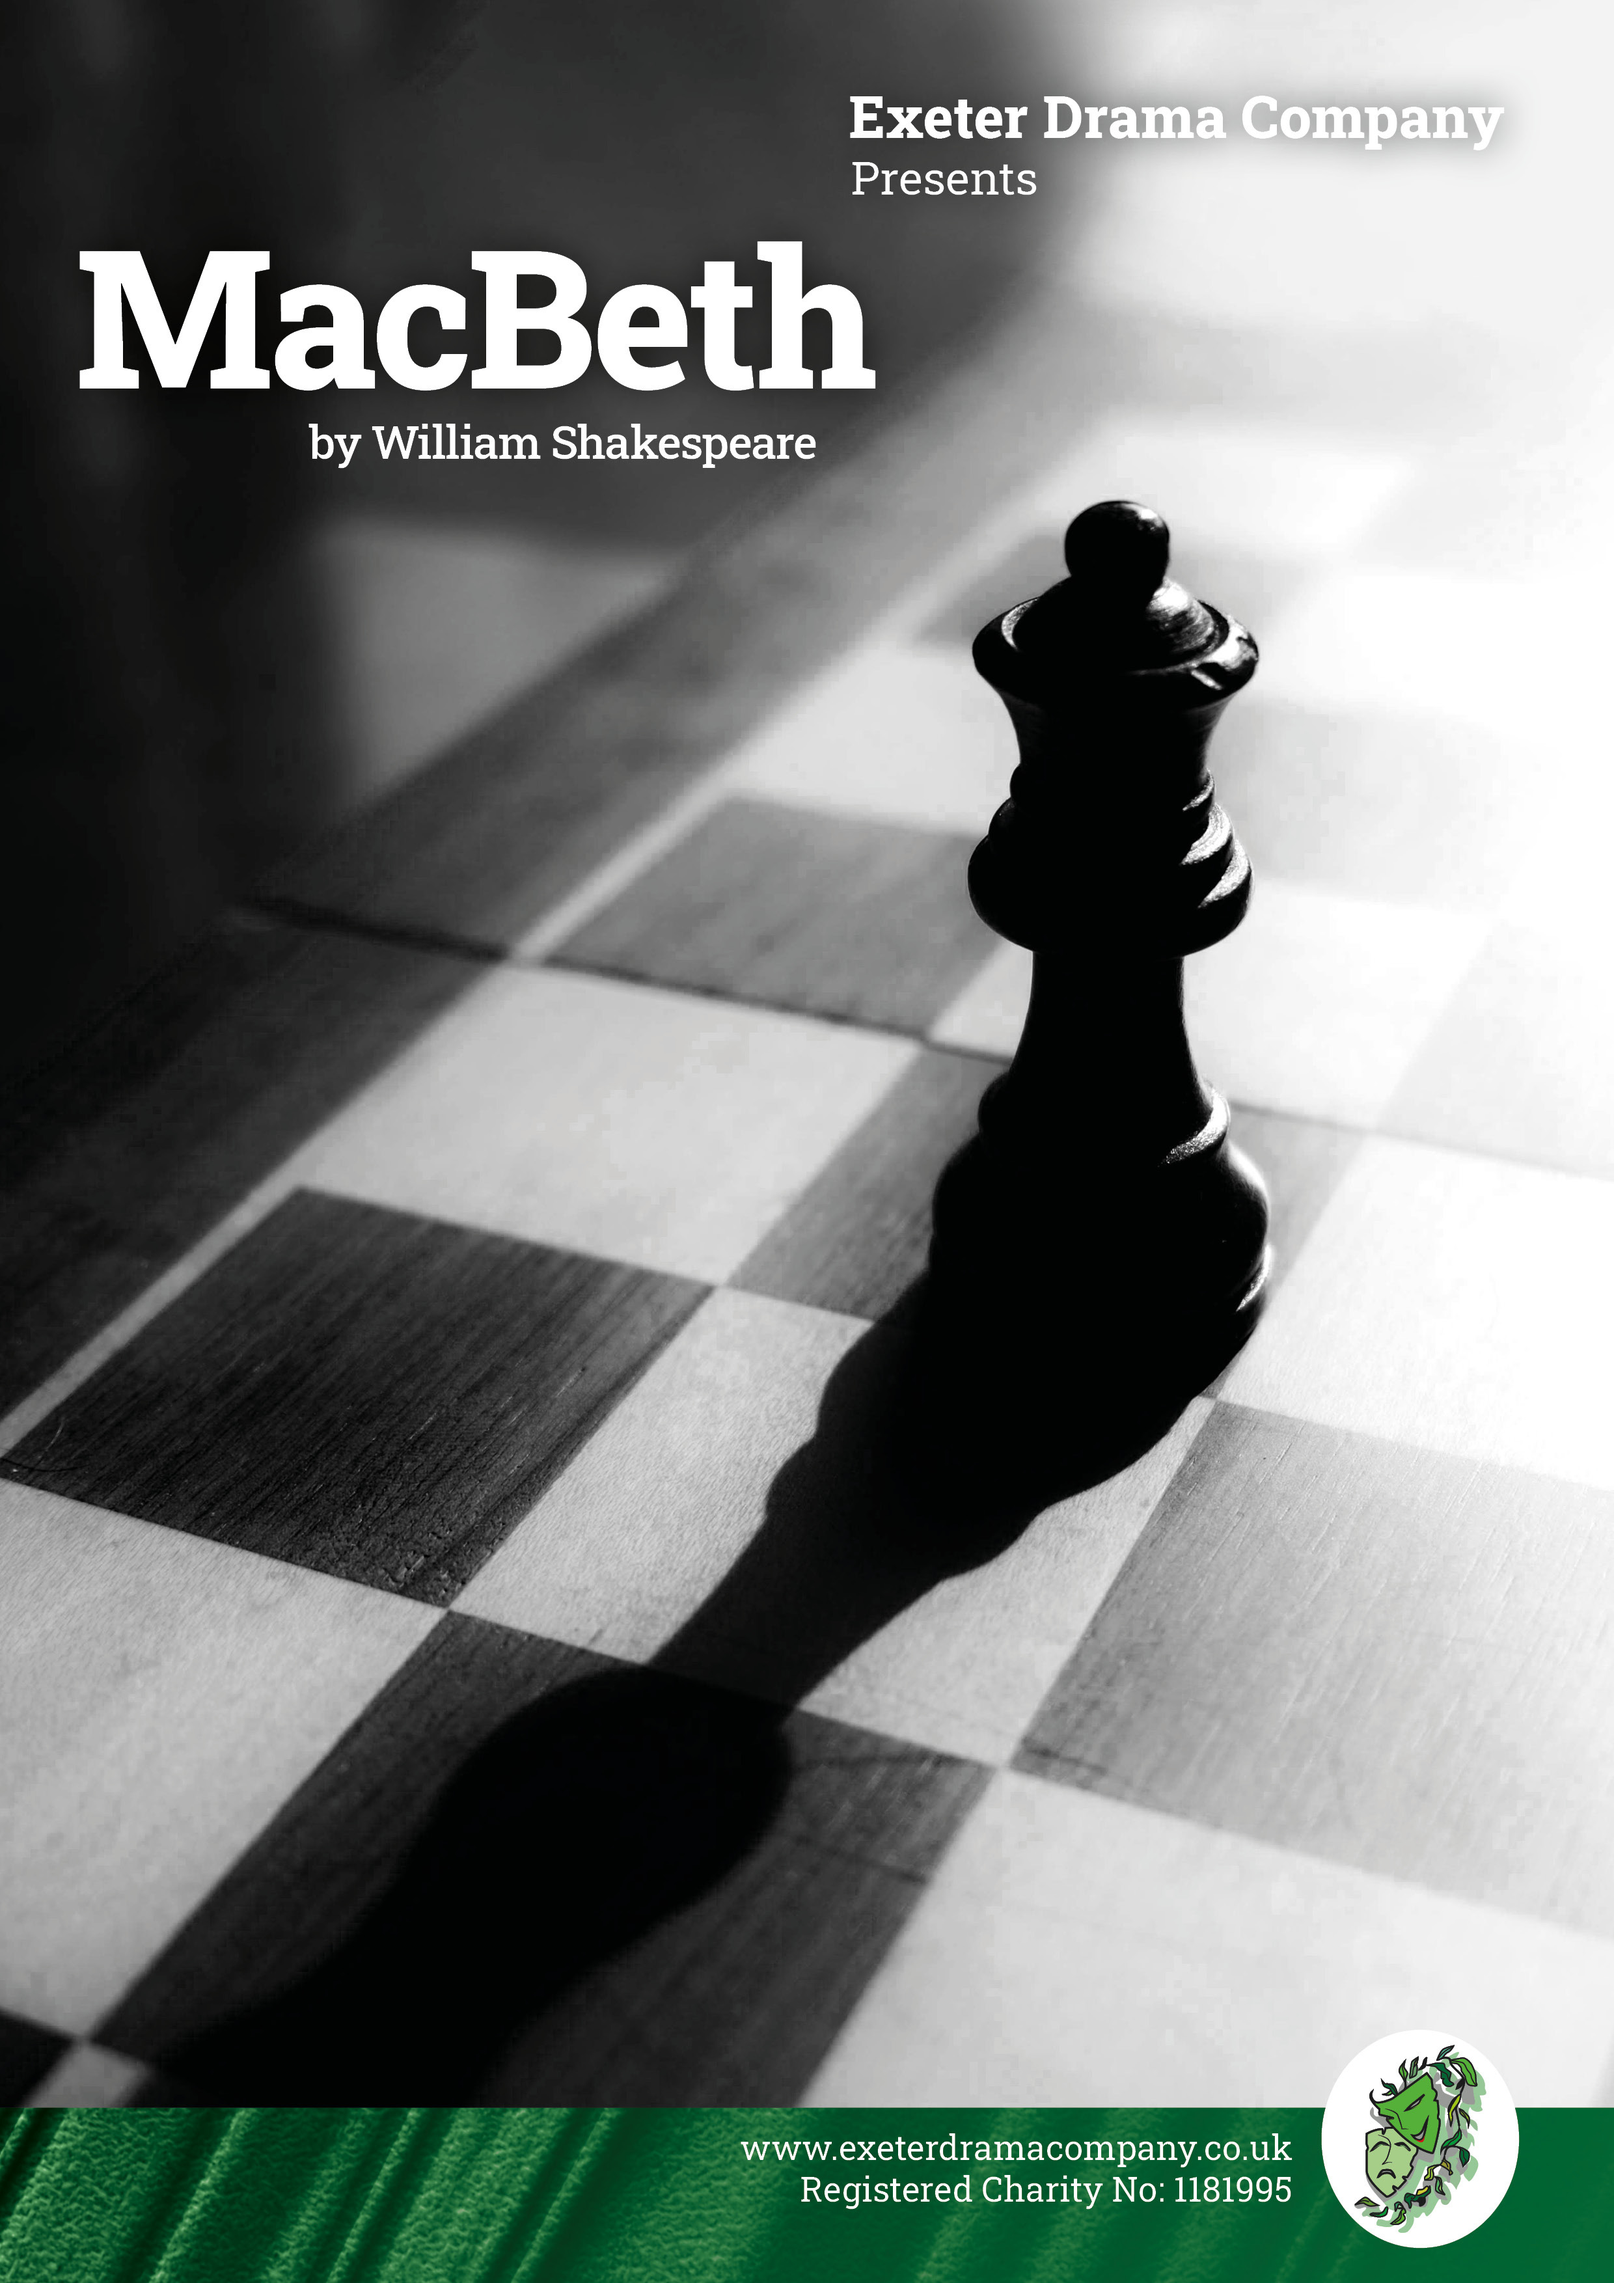
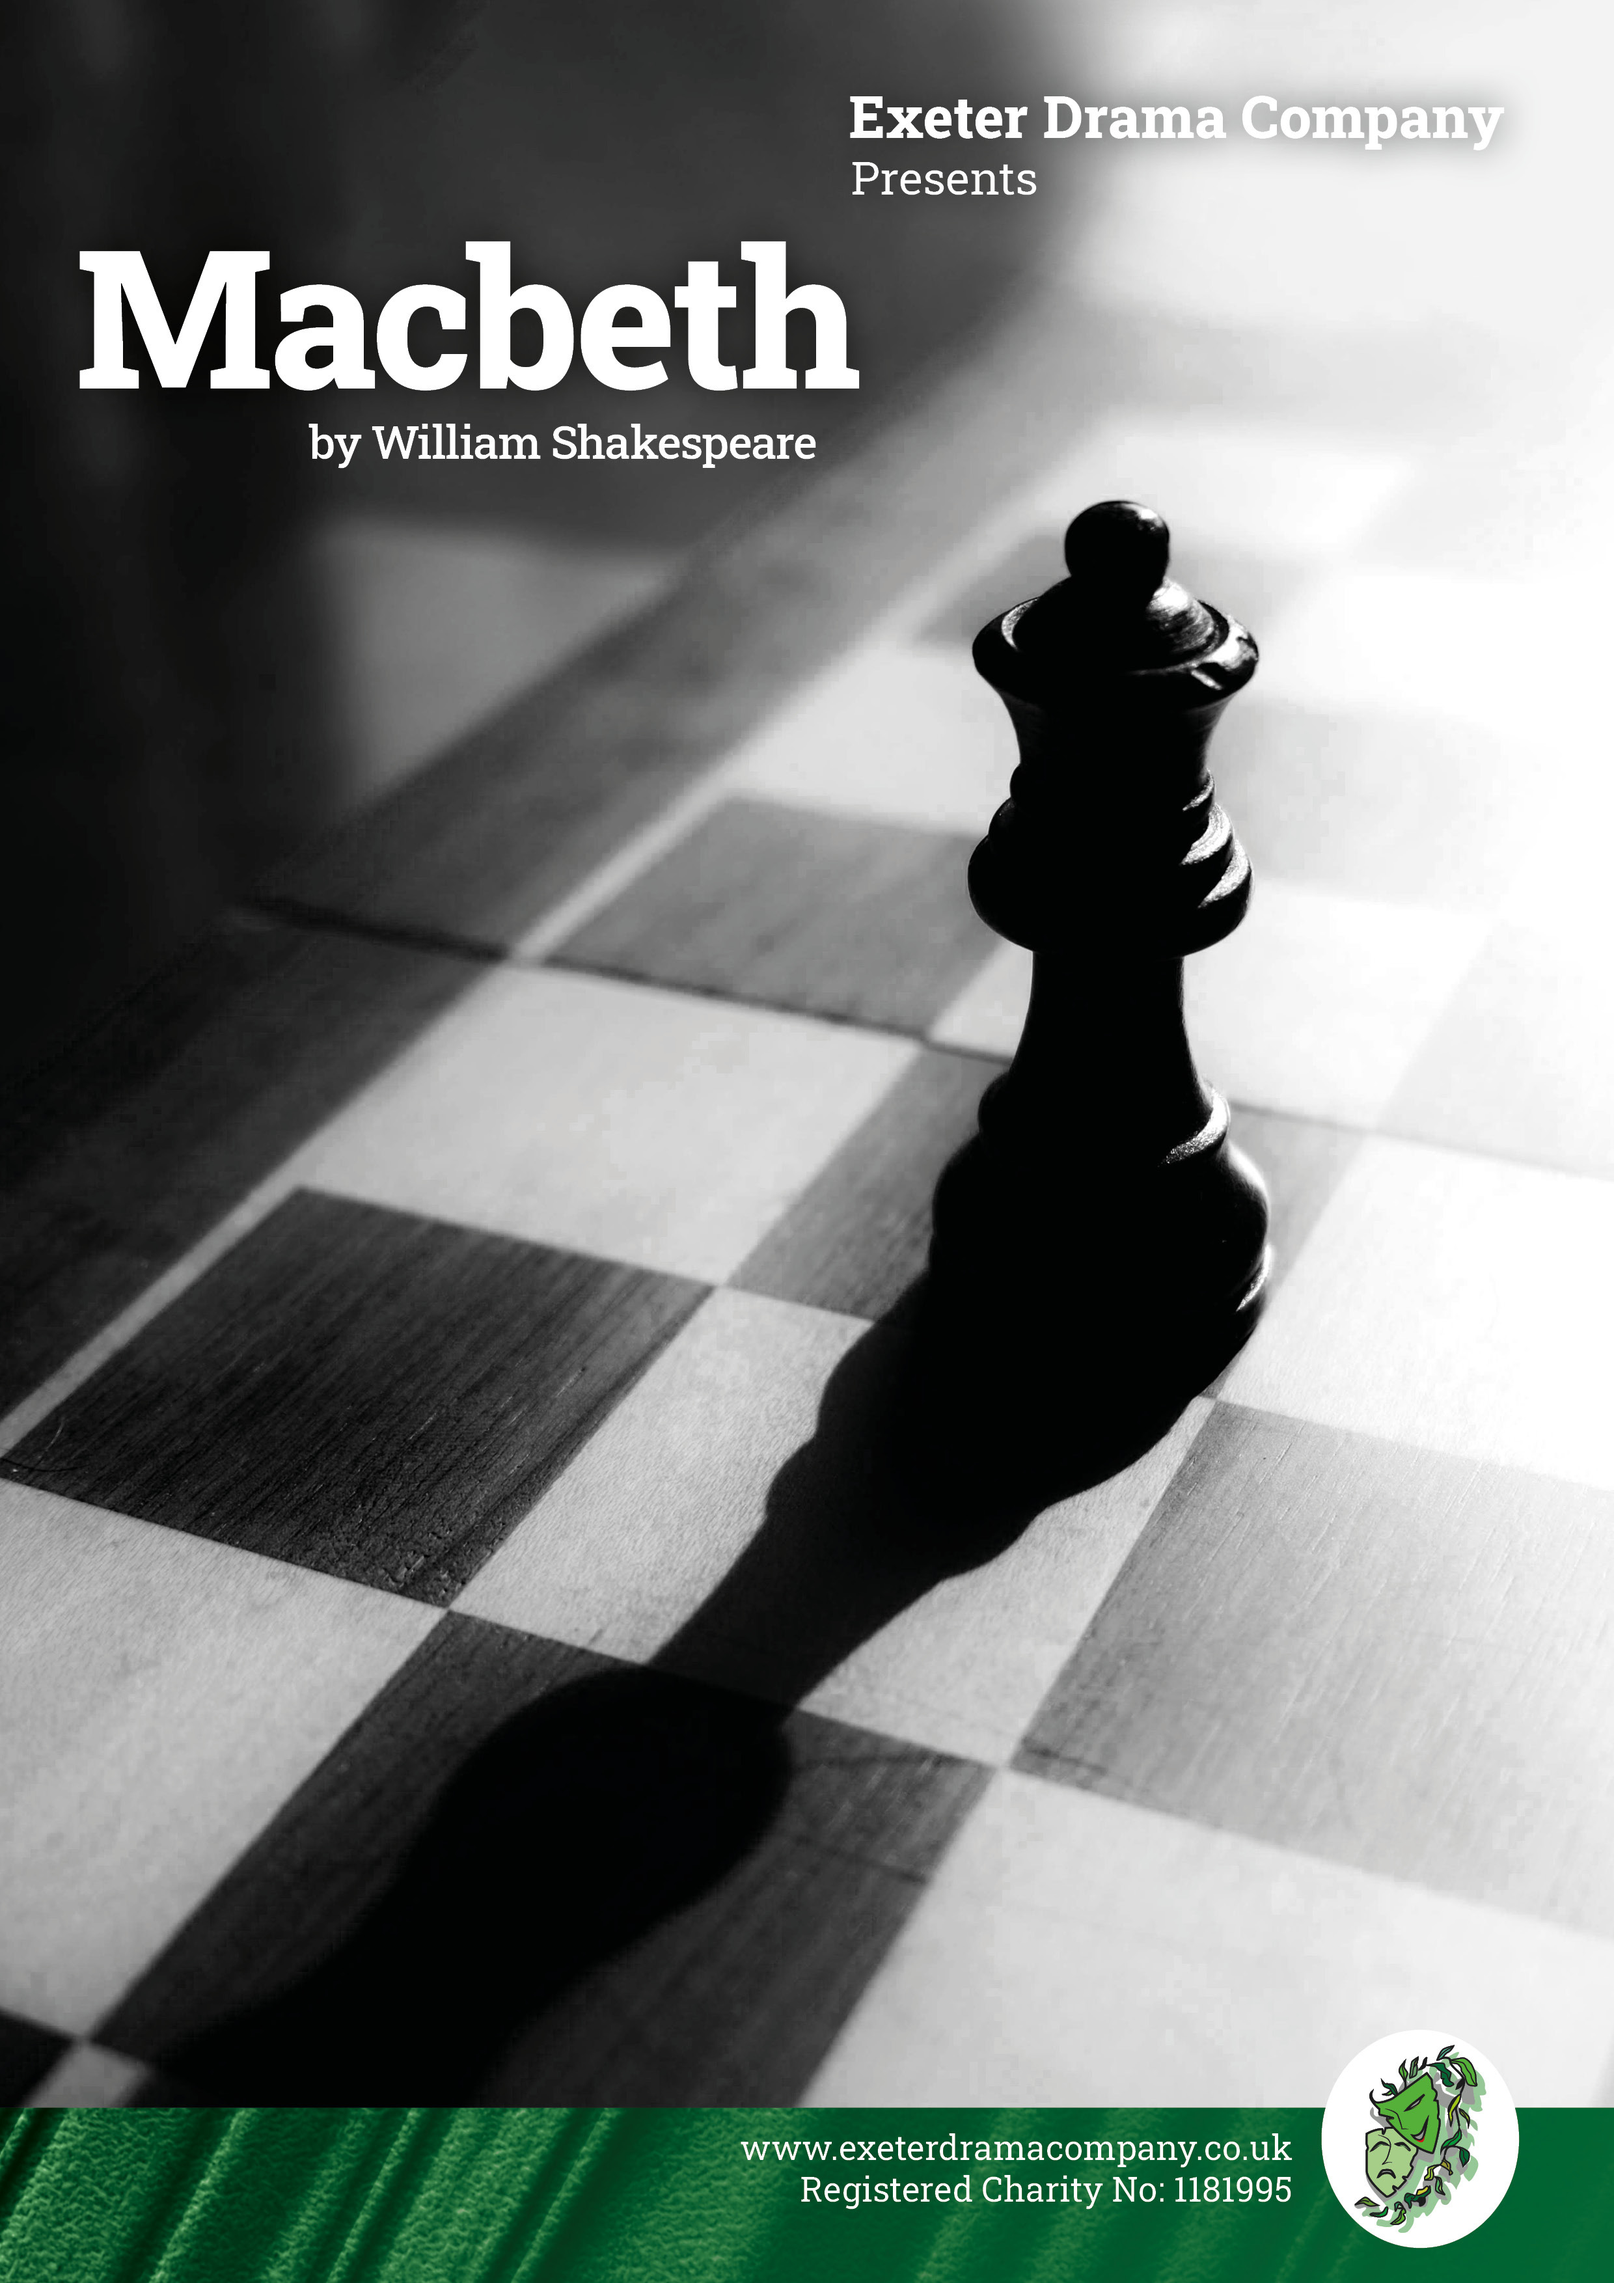
Update Macbeth details and poster

Changed region(s): [[0.2794, 0.0932, 0.5589, 0.1864]]

diff --git a/_playFuture/macbeth2023.md b/_playFuture/macbeth2023.md
@@ -10,9 +10,9 @@ poster: /assets/img/play/macbeth2023/macbeth2023poster.jpg
 booking_active: false
 location: In and around Exeter
 location_verbose: In and around Exeter
-date: 2023-07-01
+date: 2023-06-23
 time: TBC
-date_human: July 2023
+date_human: June and July 2023
 featured_on_index: true
 cast:
   - - First Witch
@@ -101,7 +101,14 @@ cast:
 ### By {{ page.author }}
 ### Directed by {{ page.director }}
 
-Further details to be announced soon.
+Brutal actions have brutal consequences.
+
+When supernatural forces give Macbeth a sign that he will become king, he and
+his wife seize an opportunity to rise through the ranks, controlling their
+destiny.
+
+But their ambitions unravel into a living nightmare, leaving a trail of
+destruction, as the couple seek to cling to power and control.
 
 {% include play/cast_list.html list=page.cast %}
 
